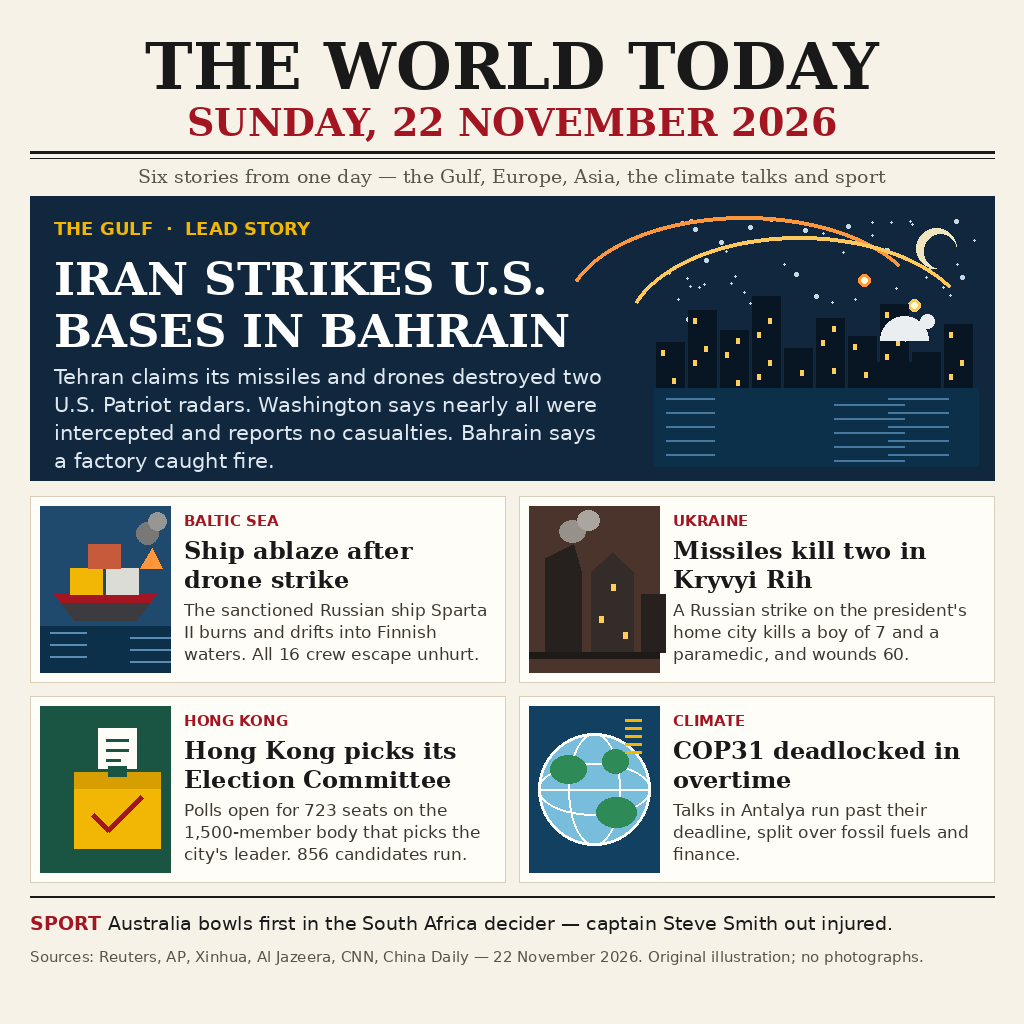
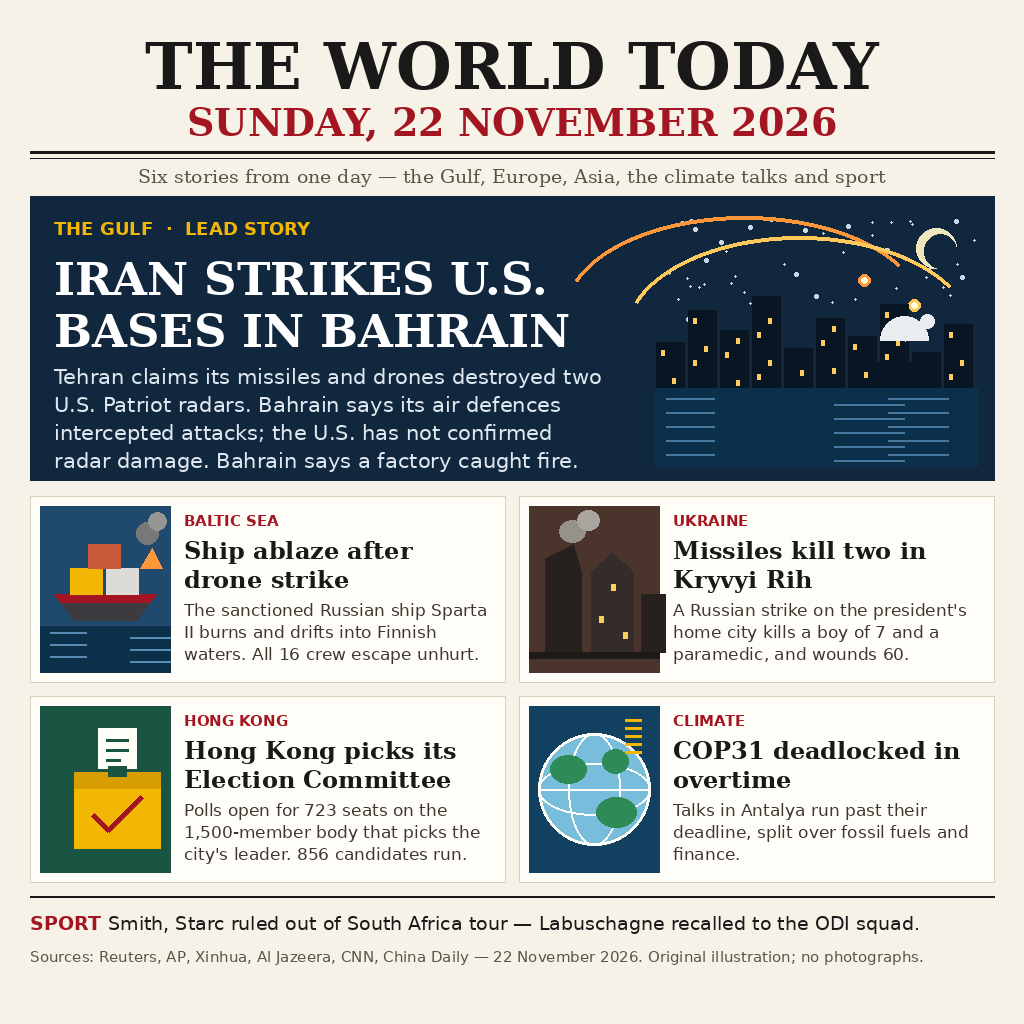
Fix lead and sport lines: Bahrain air-defence intercepts, Smith/Starc ruled out
- Lead: replace unverified 'Washington says nearly all were
  intercepted' with Bahrain Defence Force's confirmed intercepts;
  U.S. has not confirmed radar damage.
- Sport: replace stale Test-decider line with Smith and Starc ruled
  out of Australia's South Africa tour; Labuschagne recalled to
  the ODI squad.
- Re-rendered entry.png (1024x1024, 118898 bytes); main.ts verified
  byte-identical across two runs.

Changed region(s): [[0.0625, 0.375, 0.5938, 0.4688], [0.0938, 0.875, 0.875, 0.9062]]

diff --git a/render.py b/render.py
@@ -208,8 +208,9 @@ def main():
         y += 52
     body_f = font(SANS, 21)
     summary = ("Tehran claims its missiles and drones destroyed two U.S. "
-               "Patriot radars. Washington says nearly all were intercepted "
-               "and reports no casualties. Bahrain says a factory caught fire.")
+               "Patriot radars. Bahrain says its air defences intercepted "
+               "attacks; the U.S. has not confirmed radar damage. Bahrain "
+               "says a factory caught fire.")
     y += 8
     for ln in wrap(d, summary, body_f, 560):
         d.text((tx, y), ln, font=body_f, fill=LIGHT)
@@ -257,8 +258,8 @@ def main():
     sf = font(SANS_B, 19)
     d.text((M, fy + 16), "SPORT", font=sf, fill=RED)
     d.text((M + 78, fy + 16),
-           "Australia bowls first in the South Africa decider — captain Steve "
-           "Smith out injured.", font=font(SANS, 19), fill=INK)
+           "Smith, Starc ruled out of South Africa tour — Labuschagne "
+           "recalled to the ODI squad.", font=font(SANS, 19), fill=INK)
     ff = font(SANS, 15)
     d.text((M, fy + 52),
            "Sources: Reuters, AP, Xinhua, Al Jazeera, CNN, China Daily — 22 "

diff --git a/README.md b/README.md
@@ -13,9 +13,9 @@ image-generator output.
 
 - **Masthead:** "THE WORLD TODAY — SUNDAY, 22 NOVEMBER 2026"
 - **Lead story — the Gulf:** Iran says its missiles and drones destroyed
-  two U.S. Patriot radars at bases in Bahrain; the U.S. says nearly all
-  were intercepted and reports no casualties; Bahrain says a factory
-  caught fire.
+  two U.S. Patriot radars at bases in Bahrain; Bahrain says its air
+  defences intercepted attacks and the U.S. has not confirmed radar
+  damage; Bahrain says a factory caught fire.
 - **Baltic Sea:** the sanctioned Russian cargo ship *Sparta II* is hit by
   drones, catches fire and drifts into Finnish waters; all 16 crew
   escape unhurt.
@@ -25,8 +25,8 @@ image-generator output.
   Committee that picks the city's leader; 856 candidates are running.
 - **Climate:** COP31 talks in Antalya run past their deadline, deadlocked
   over fossil fuels and finance.
-- **Sport:** Australia bowls first in the South Africa decider; captain
-  Steve Smith is out injured.
+- **Sport:** Steve Smith and Mitchell Starc are ruled out of Australia's
+  South Africa tour; Marnus Labuschagne is recalled to the ODI squad.
 
 Sources: Reuters, AP, Xinhua, Al Jazeera, CNN, China Daily — reported
 22 November 2026. Claims that could not be independently verified are
